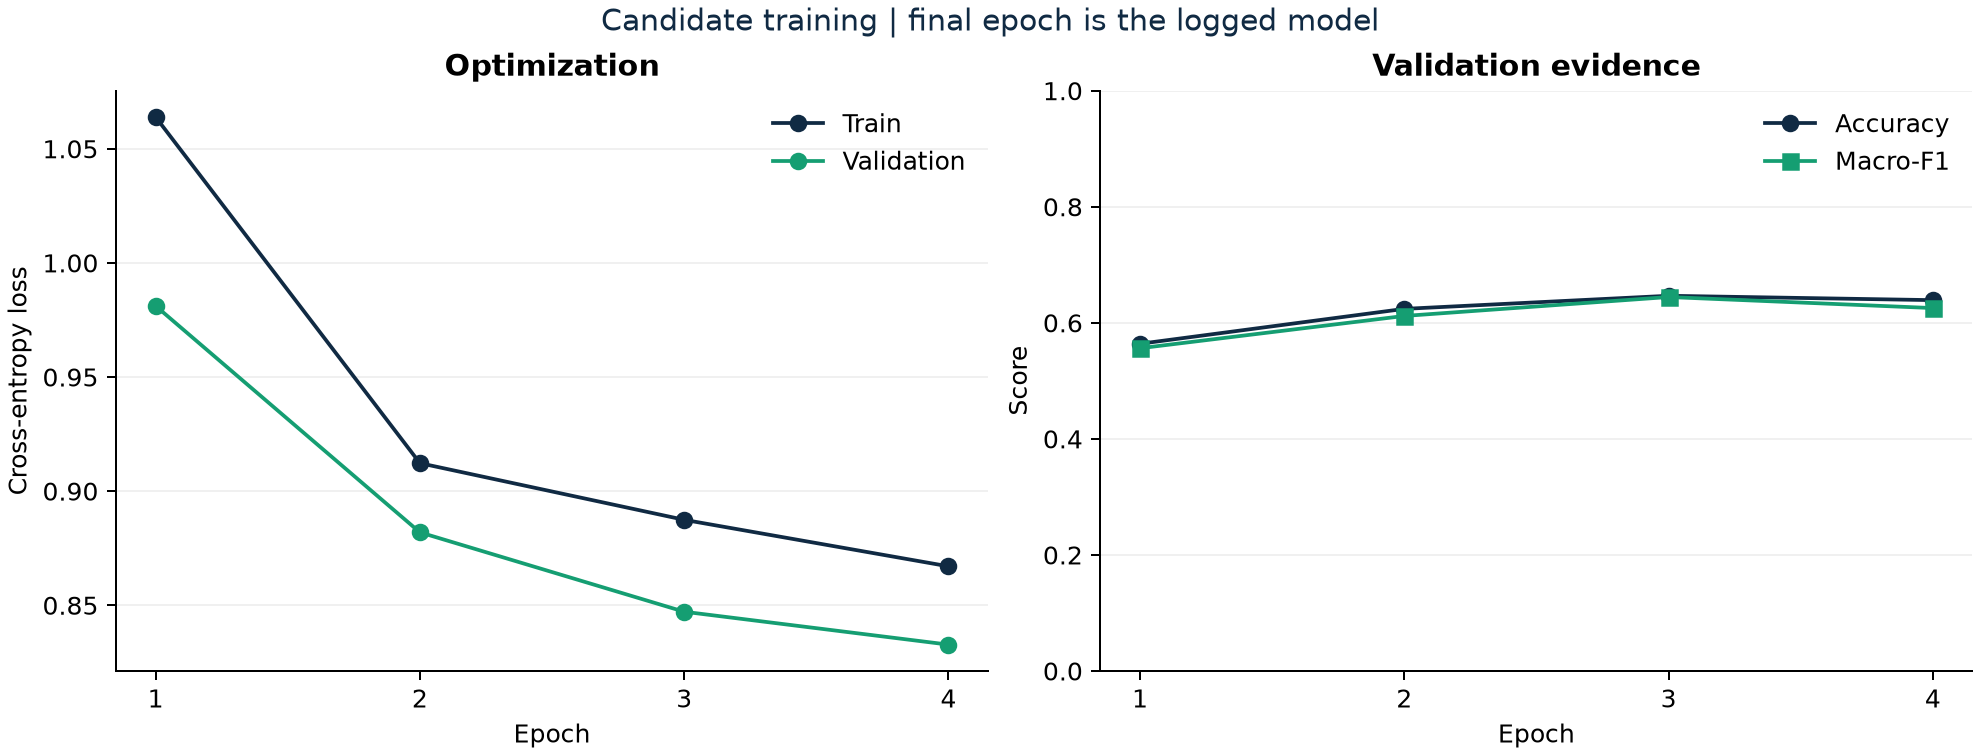
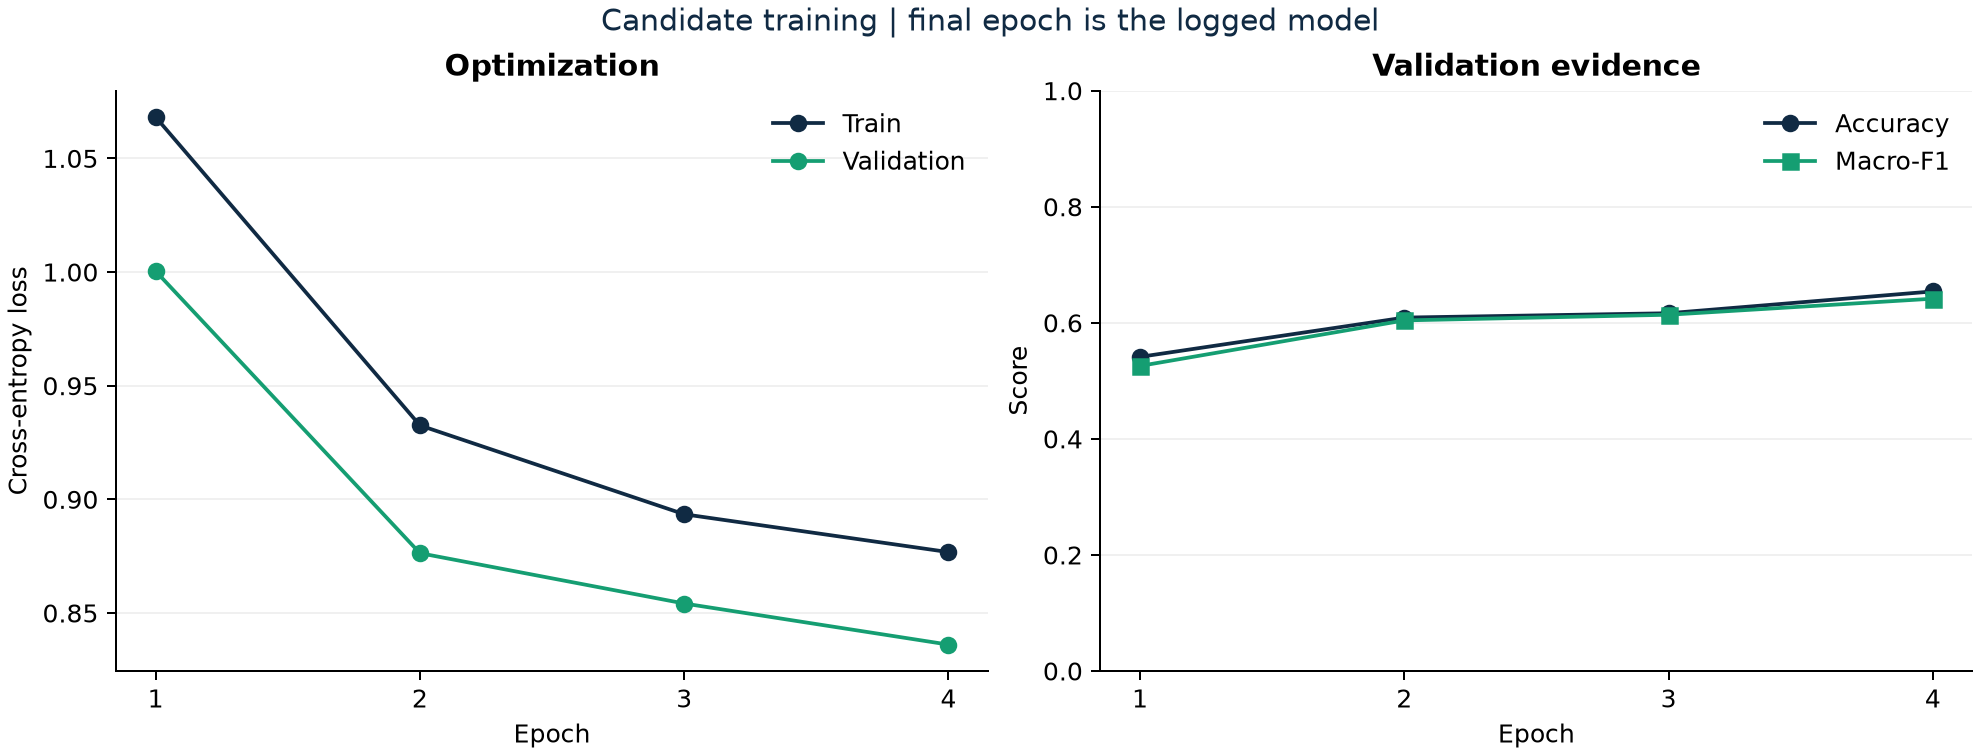
Compare three training runs

diff --git a/LAB_REPORT.md b/LAB_REPORT.md
@@ -130,3 +130,12 @@ Because it will simply train using rotations and flipping of the images, so the 
 
 
 
+| Run | Controlled change | Val. Accuracy | Val. Macro-F1 | Training time (s) | MLflow Run ID |
+|---|---|---|---|---|---|
+| A | Baseline | 0.639 | 0.625 | 7.92 | ac903503e3134477b9c66a5c278c518a |
+| B | `learning_rate` = 0.0003 | 0.617 | 0.609 | 7.90 | ac2227a88d56431d8b6094bd1d7e1b40 |
+| C | `augmentation.enabled` = `true` | 0.654 | 0.642 | 7.92 | b5cb8063b75940d08b91b98b226a8262 |
+
+**Engineering checkpoint 6** All metrics are sorted in the same order, but the good metric here would be `Macro-F1` because it helps keeping a good balance on results. 
+
+ 
